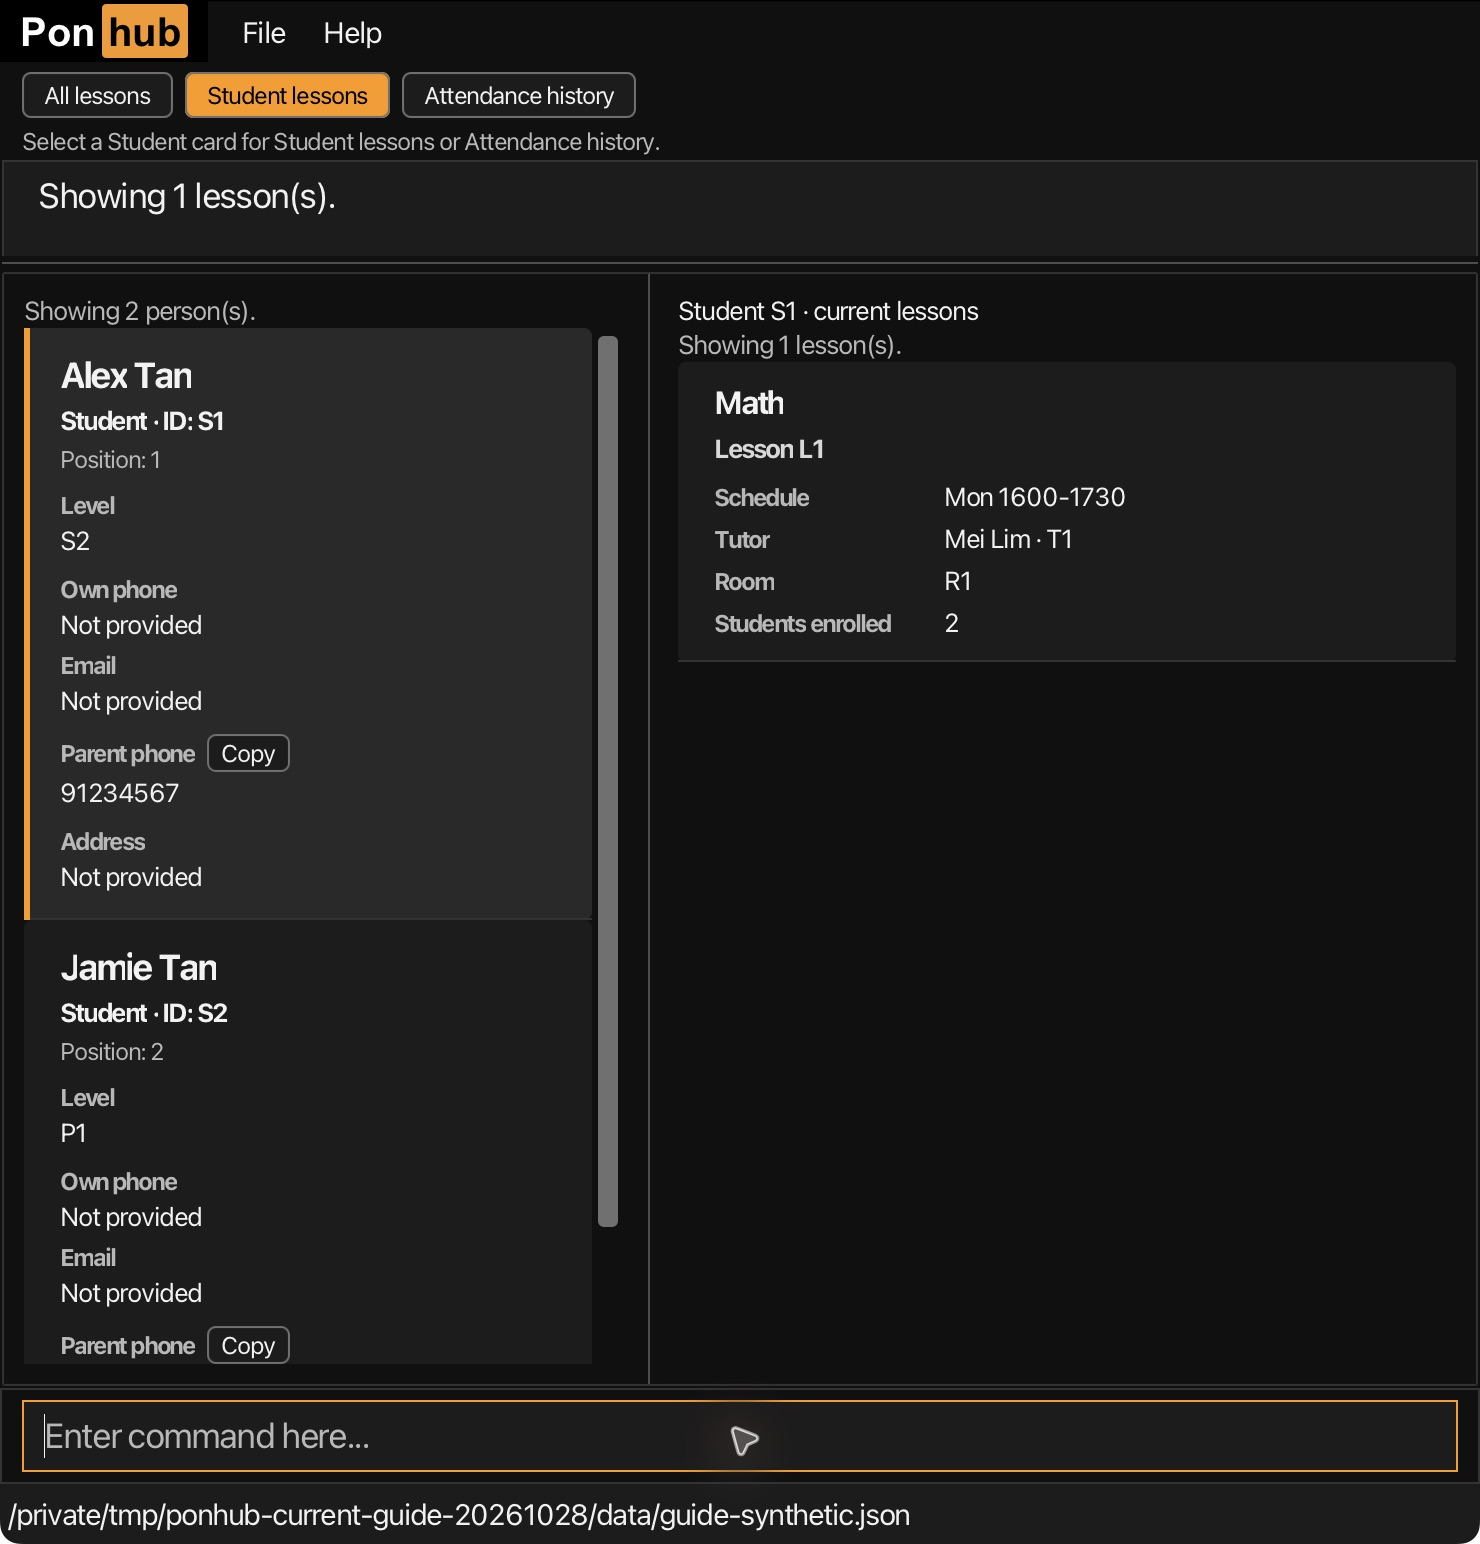
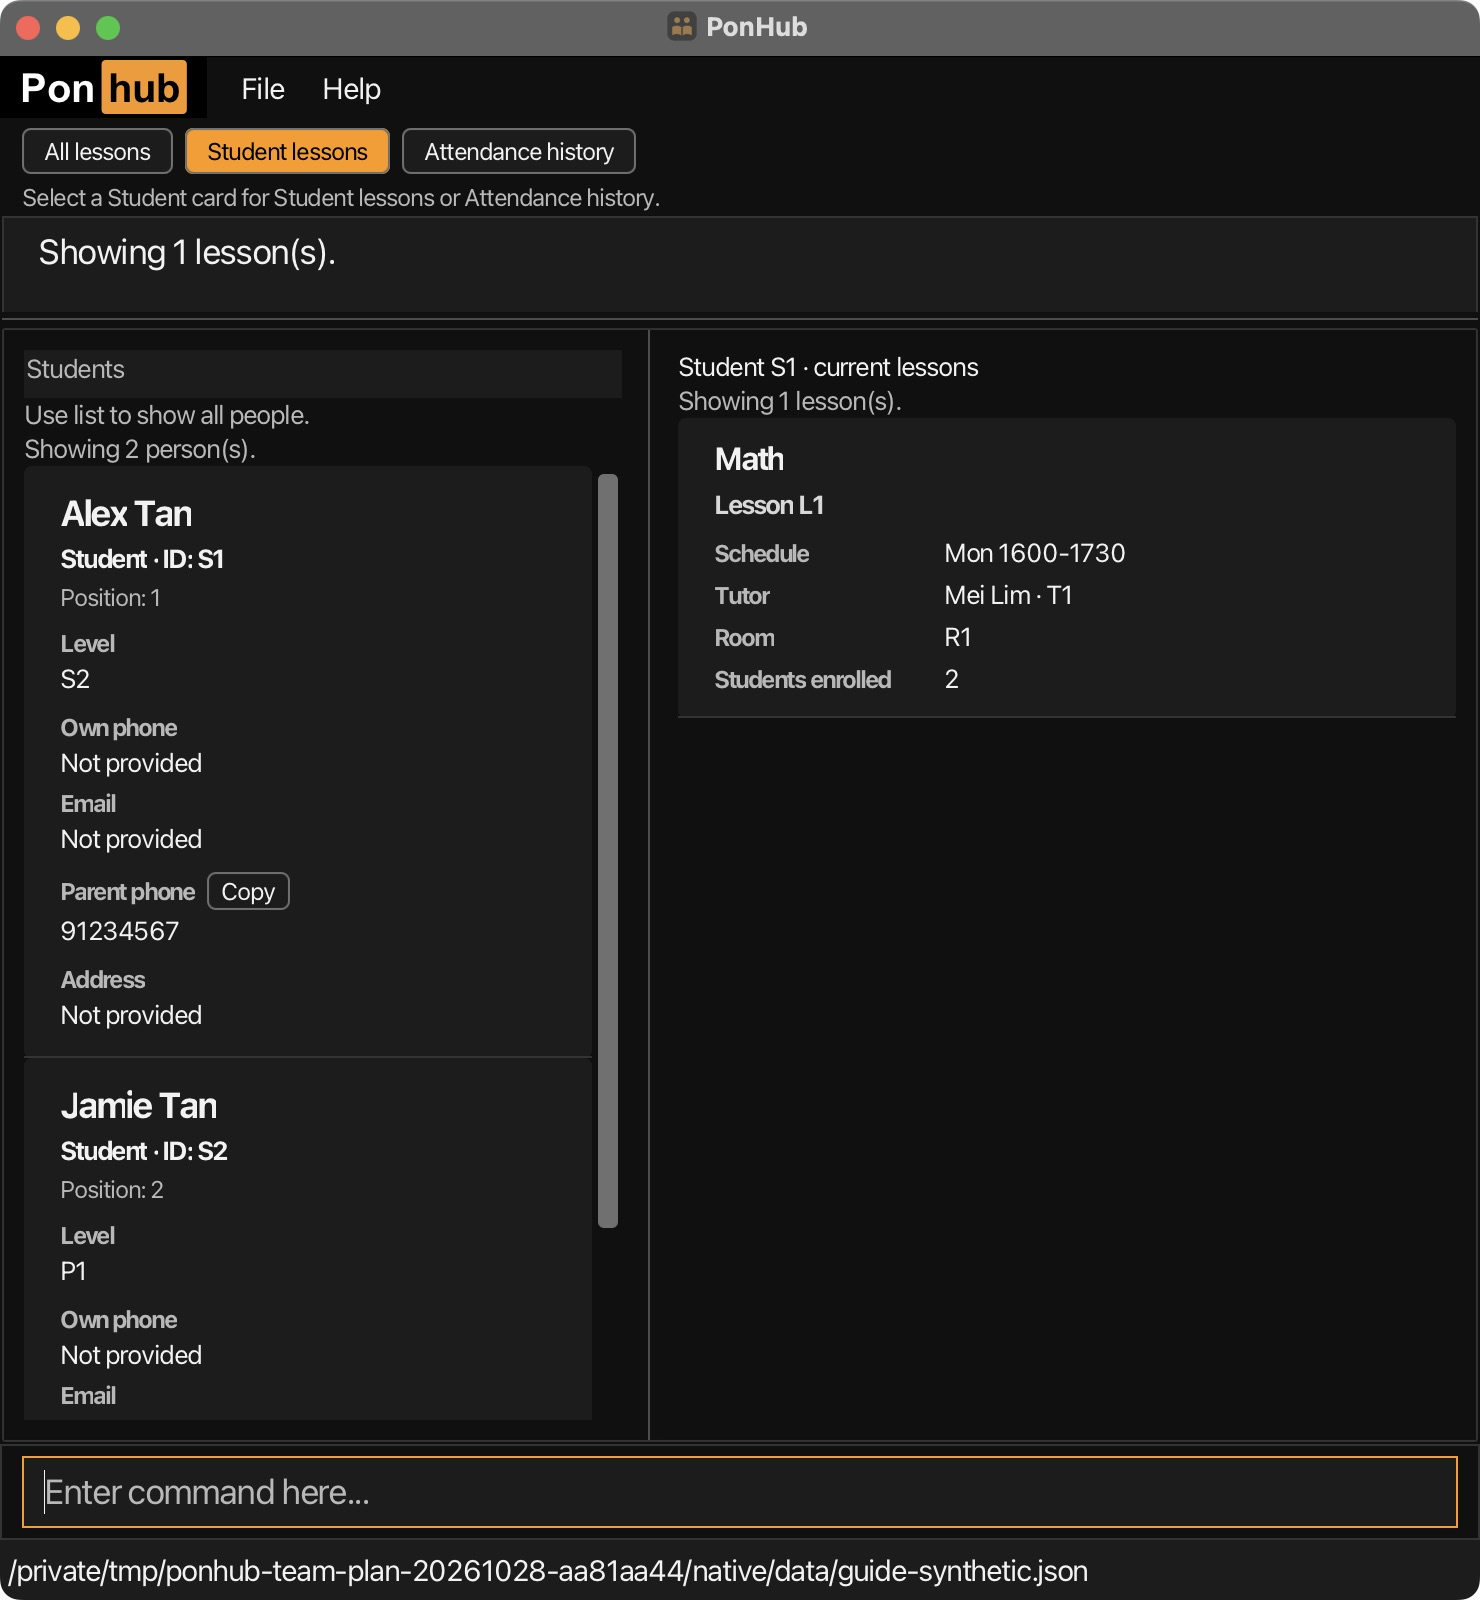
Refresh current people-panel screenshots

diff --git a/docs/images/README.md b/docs/images/README.md
@@ -18,16 +18,18 @@ applied. The JPEGs use quality 95 with no chroma subsampling.
 
 | Image | Pixels | Crop bounds | Illustration |
 | --- | --- | --- | --- |
-| [Ui.png](Ui.png) | 1480×1544 | `(0, 56, 1480, 1600)` | Two Students sharing one Lesson. |
-| [LessonBoardNavigation.png](LessonBoardNavigation.png) | 1480×1544 | `(0, 56, 1480, 1600)` | Student lessons beside an independent people filter. |
+| [Ui.png](Ui.png) | 1480×1600 | `(0, 0, 1480, 1600)` | Two Students sharing one Lesson. |
+| [LessonBoardNavigation.png](LessonBoardNavigation.png) | 1480×1600 | `(0, 0, 1480, 1600)` | Student lessons beside an independent people filter. |
 | [AttendanceDetails.jpg](AttendanceDetails.jpg) | 816×724 | `(662, 340, 1478, 1064)` | Alex present and Jamie absent in the current roster. |
 | [AttendanceHistory.jpg](AttendanceHistory.jpg) | 816×320 | `(662, 340, 1478, 660)` | Jamie's absence retained after unenrolment. |
 
-Overview/navigation crops omit the native title bar. Attendance crops retain the
-relevant heading and results so their text remains readable in the guide. The attendance
+Overview/navigation captures include the native title bar and persistent people heading.
+Attendance crops retain the relevant heading and results so their text remains readable in the guide. The attendance
 images show source
 [`b22d81569b96ba66b258c94a9ca2b5a7658cdeaa`](https://github.com/AY2627S1-CS2103T-F13-3/tp/tree/b22d81569b96ba66b258c94a9ca2b5a7658cdeaa).
-Overview and navigation reflect the development interface and may differ from public v1.4.
+Overview and navigation show source
+[`aa81aa445276366cd1baafc1b7cbb09b10cbcf01`](https://github.com/AY2627S1-CS2103T-F13-3/tp/tree/aa81aa445276366cd1baafc1b7cbb09b10cbcf01)
+with the persistent Student heading and reset hint. They may differ from public v1.4.
 
 ## Other project media
 
